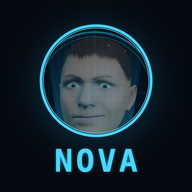
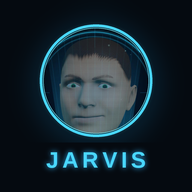
App-Symbol mit JARVIS, CLAUDE.md
Claude-Session: https://claude.ai/code/session_01F3NnQr6aiXQWHdKexzYdBg

Changed region(s): [[0.2188, 0.7188, 0.7812, 0.9062]]

diff --git a/CLAUDE.md b/CLAUDE.md
@@ -1,0 +1,12 @@
+# Hinweise für Claude
+
+Vor jeder Arbeit an dieser App zuerst `ARCHITEKTUR.md` lesen: Überblick über Web-App, Server (`api/`), Weckruf-APK (`weckruf-src/`), Datenabgleich und Stolperfallen.
+
+Wichtig:
+- Der Assistent heißt **Jarvis** (nach außen). Intern heißt er noch "Zane" (Befehle, Schlüssel); Schlüssel mit `nova_` und `jv_` nicht umbenennen, sonst gehen Einstellungen verloren.
+- Änderungen immer als Branch plus Pull Request, nie als ZIP. Der Nutzer mergt am Handy.
+- Bei jedem Umbau sagen, welche Dateien gelöscht werden sollen. Optische Änderungen erst als Bild zeigen.
+- Neue Skripte in `index.html` einhängen und `?v=` ändern, wenn sich eine Datei geändert hat.
+- Vercel Hobby: höchstens 12 Functions in `api/` (11 belegt). Neues in bestehende Dateien einbauen.
+- Änderungen unter `weckruf-src/` lösen einen neuen APK-Bau aus; der Nutzer muss die neue APK installieren.
+- Der Nutzer arbeitet am Handy, Antworten auf Deutsch, kurz und ohne Fachjargon.
